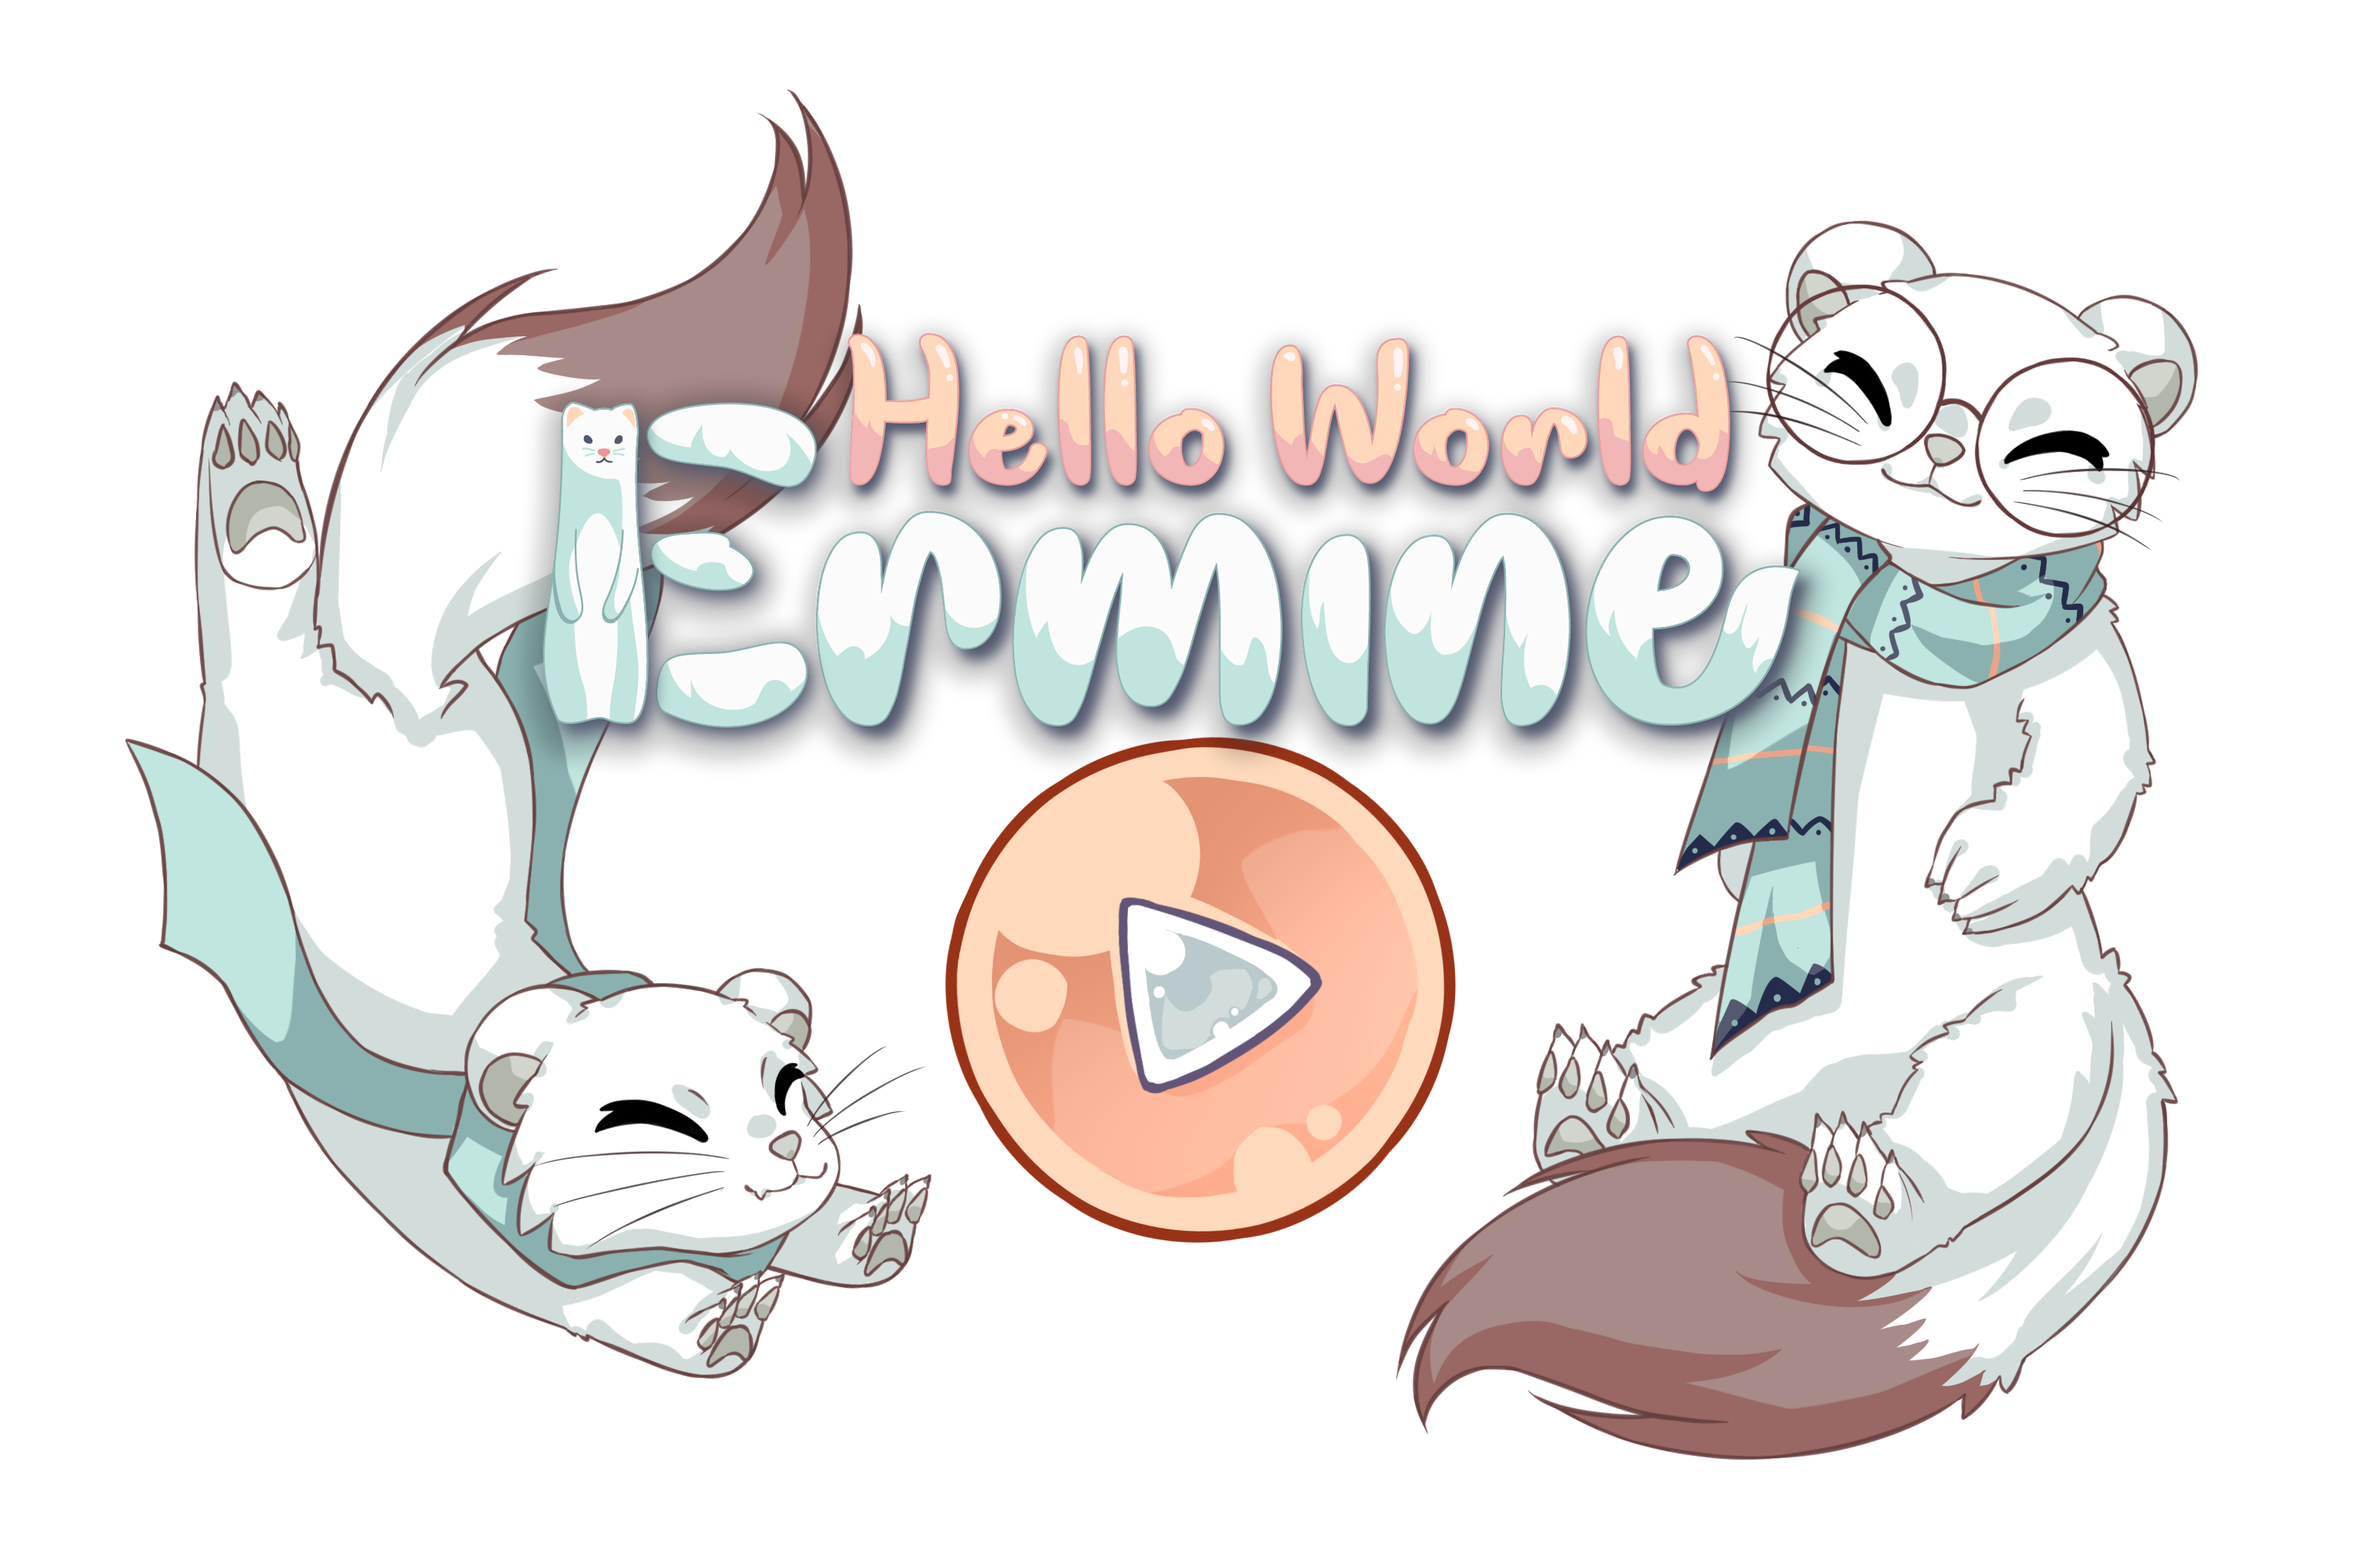
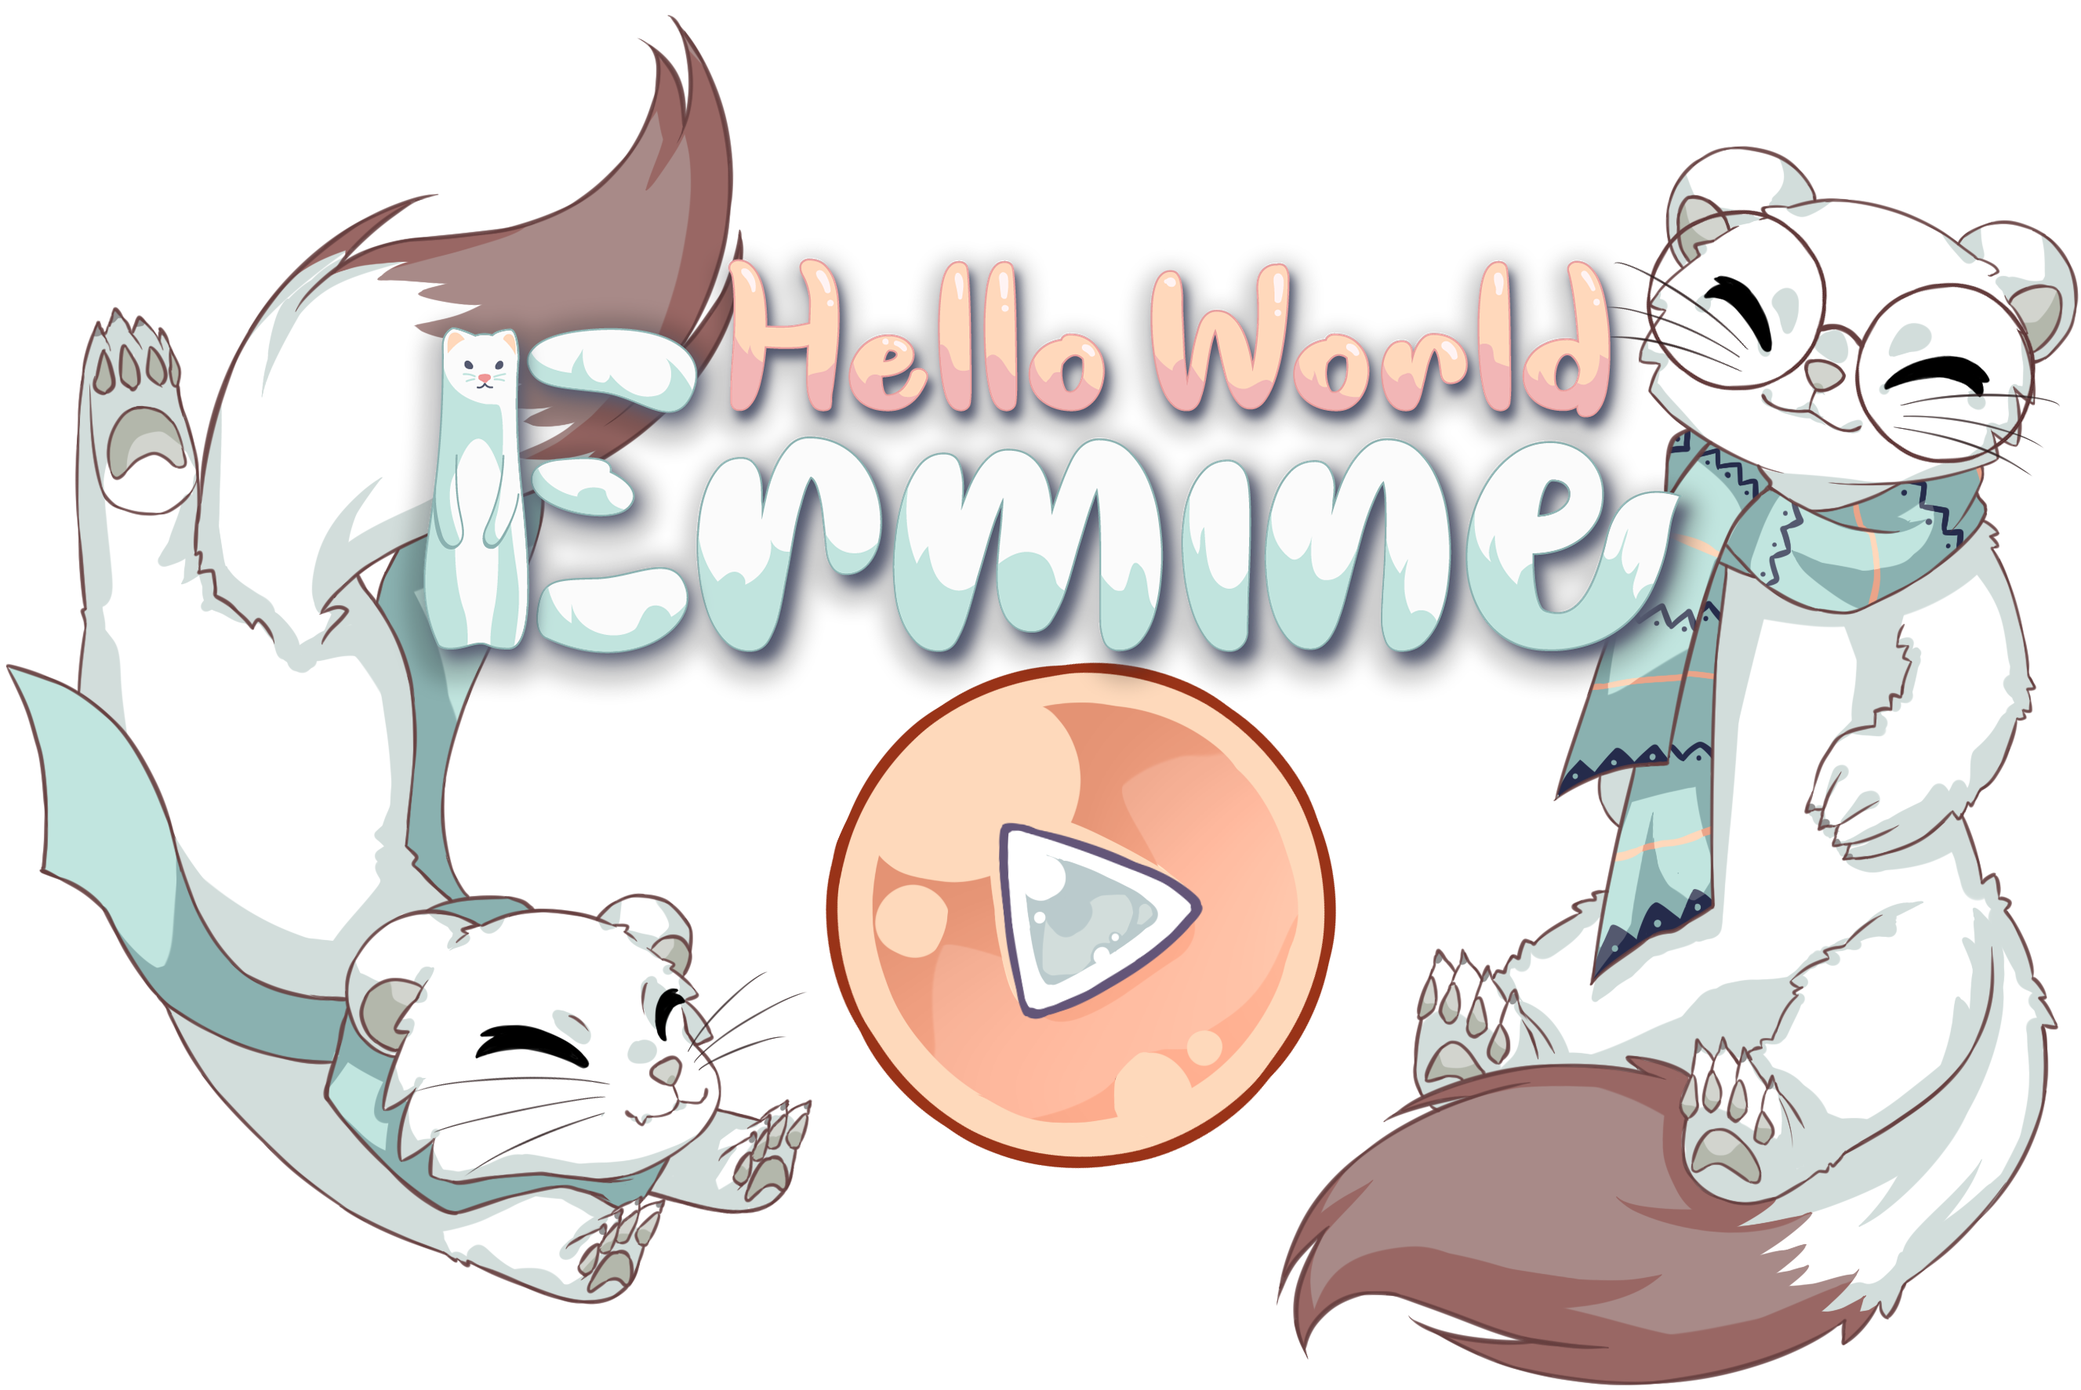
added game button hover

diff --git a/src/containers/Game/style.js b/src/containers/Game/style.js
@@ -27,4 +27,11 @@ export const GameButtom = styled.img`
   width: 85%;
   text-align: center;
   margin-bottom: 7%;
+  transition: transform .2s ease-out;
+  cursor: pointer;
+
+  :hover {
+    transform: rotate(-5deg);
+    filter: drop-shadow(30px 10px 4px #4444dd);
+  }
 `;
